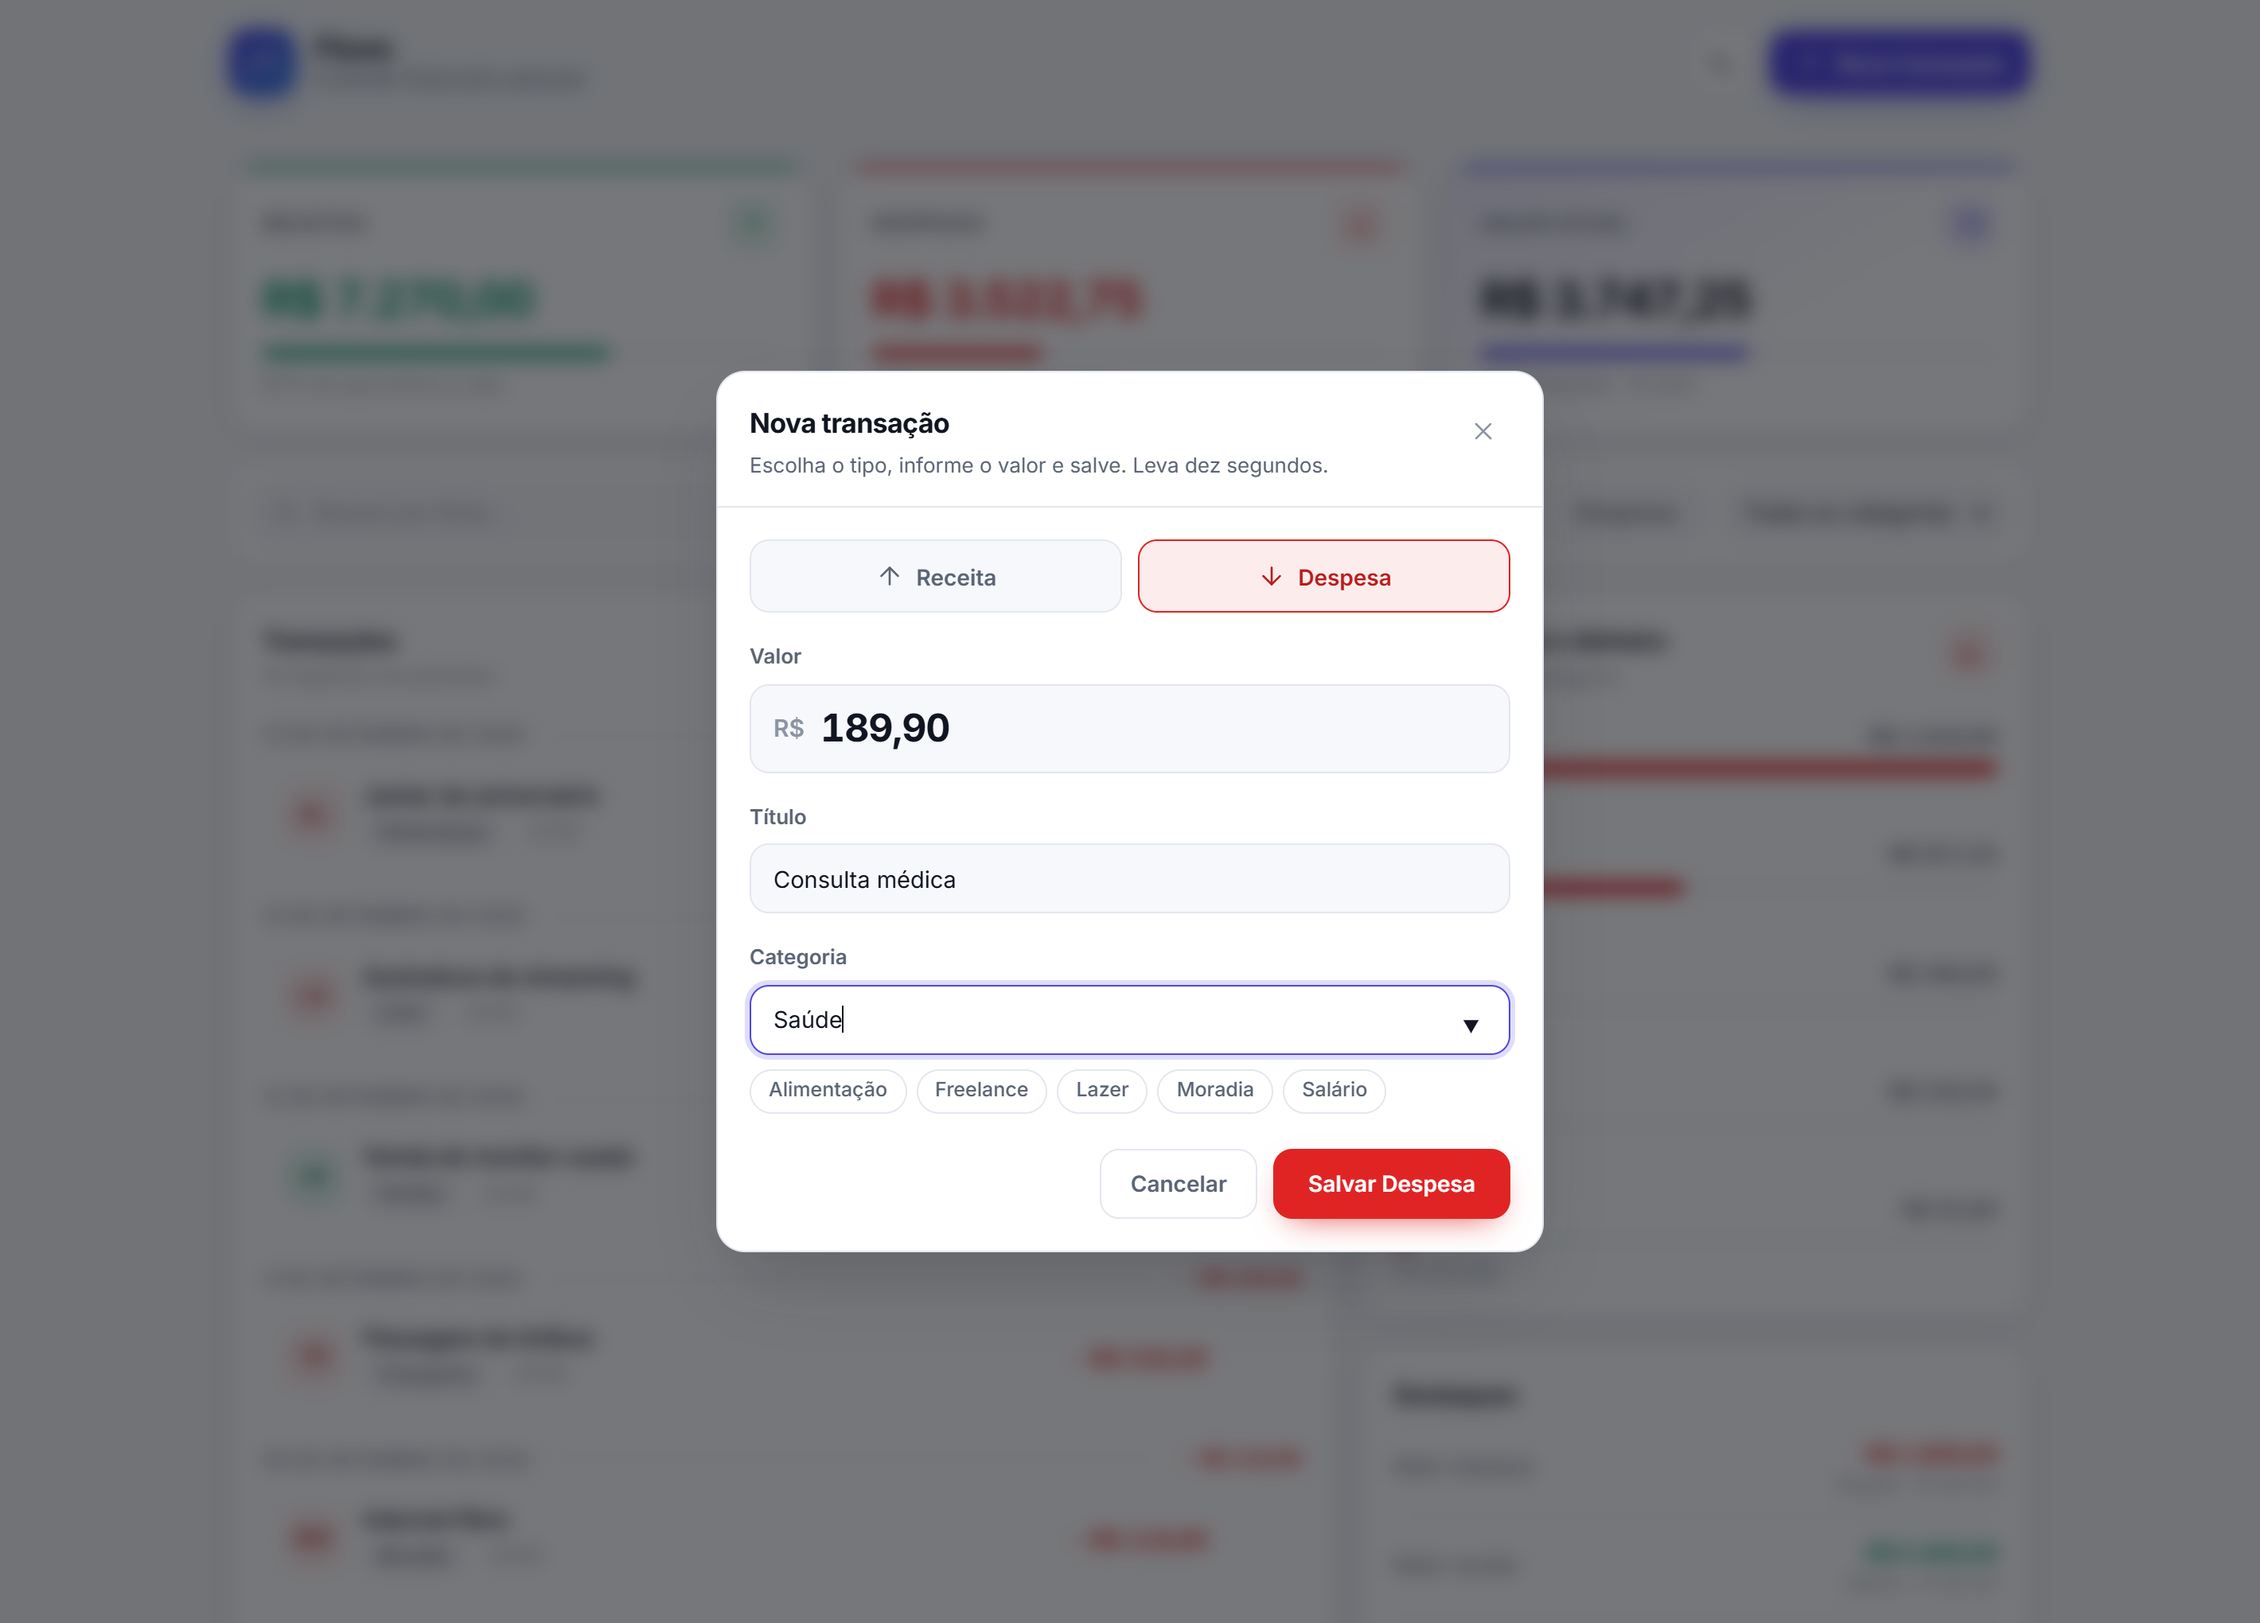
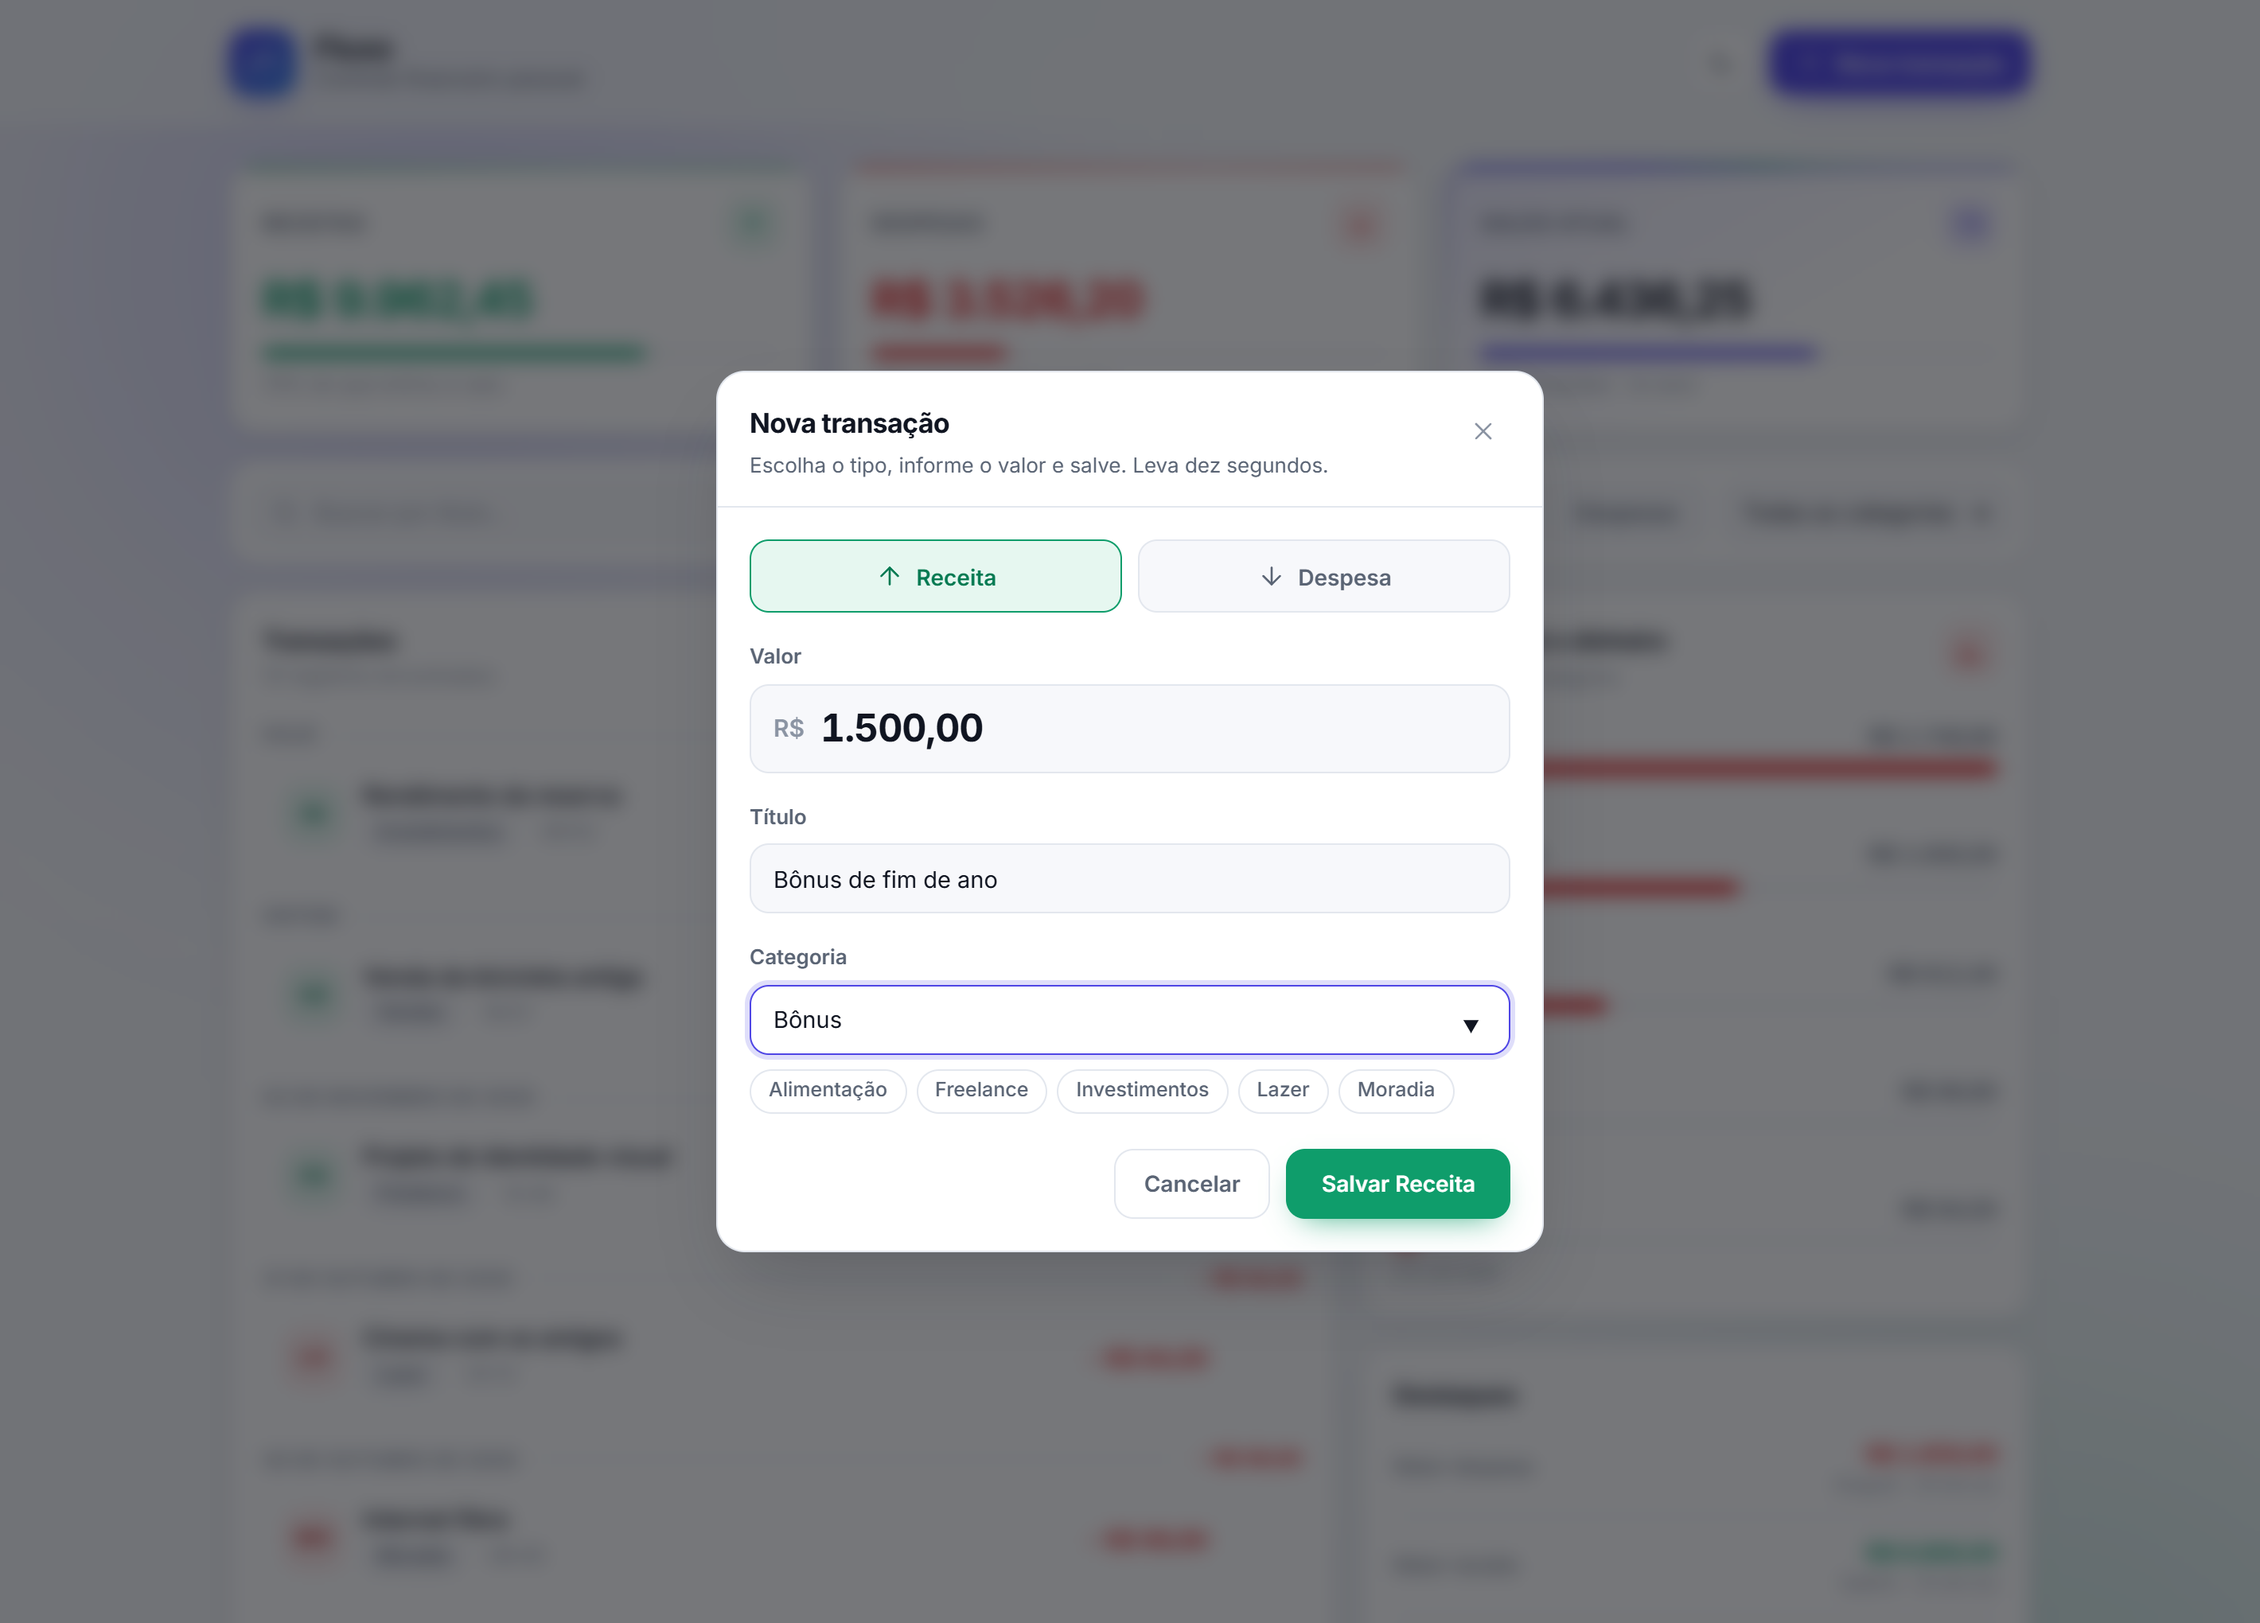
Recomeça o README com tom positivo e fotos de um mês saudável
O README anterior abria pela dor ("pare de se perguntar para onde foi o
seu dinheiro") e as fotos mostravam despesas no topo da lista. Agora o
texto e as imagens falam de clareza, progresso e conquista.

Texto
- Título "Seu dinheiro, com toda a clareza" e convite para abrir o app,
  repetido no fim com "O seu mês mais organizado começa agora".
- Benefícios em tom de ganho: saber quanto sobra, lançar em dez segundos,
  comemorar cada receita, entender os hábitos e encontrar tudo na hora.
- Privacidade como vantagem, e a limitação do armazenamento local virou
  uma dica de uso.
- Três passos para começar e perguntas frequentes com respostas
  afirmativas, todas verdadeiras para o app de hoje.

Fotos e GIF, gravados do site publicado
- Um mês saudável: salário, freela, rendimento da reserva e venda, com
  aporte em investimentos e saldo de R$ 6.436,25 no azul.
- As entradas mais recentes, em verde, abrem a lista.
- O formulário mostra uma receita sendo lançada.
- O GIF termina com um bônus entrando: selos verdes, faíscas e o saldo
  subindo.

diff --git a/README.md b/README.md
@@ -6,139 +6,141 @@
 [![Licença MIT](https://img.shields.io/badge/licen%C3%A7a-MIT-blue.svg)](LICENSE)
 [![PRs bem-vindos](https://img.shields.io/badge/PRs-bem--vindos-brightgreen.svg)](CONTRIBUTING.md)
 
-## Pare de se perguntar para onde foi o seu dinheiro.
+## Seu dinheiro, com toda a clareza.
 
-O Fluxo mostra seu saldo, seus gastos e o que mais pesa no mês **em uma tela só**.<br>
-Sem planilha. Sem cadastro. Sem entregar seus dados para ninguém.
+Anote receitas e despesas em segundos e acompanhe o seu saldo crescer.<br>
+**Simples, bonito e 100% seu.**
 
-### [**→ Abrir o Fluxo agora, é grátis**](https://th3usbit.github.io/fluxo-controle-financeiro/)
+### [**✨ Abrir o Fluxo, é grátis**](https://th3usbit.github.io/fluxo-controle-financeiro/)
 
-<sub>Nada de conta, e-mail ou cartão. Abriu, usou.</sub>
+<sub>Funciona direto no navegador. Sem cadastro, sem instalar nada.</sub>
 
 </div>
 
 <br>
 
-![O Fluxo em ação: os totais sobem, uma despesa é lançada e o saldo reage na hora](.github/assets/fluxo-em-acao.gif)
+![O Fluxo em ação: os totais sobem, um bônus é lançado e o saldo cresce na hora](.github/assets/fluxo-em-acao.gif)
 
 ---
 
-## O fim do mês não precisa ser uma surpresa
+## Organizar as finanças pode ser leve
 
-O salário cai, os dias passam e, quando você olha, o dinheiro já foi. Foi no mercado? Na assinatura que você nem usa mais? Nos pedidos de comida da semana?
+Saber para onde vai cada real é a base de toda conquista: a viagem, a reserva de emergência, o primeiro investimento. O Fluxo transforma isso num hábito rápido e gostoso: **você anota, ele organiza e mostra o seu progresso.**
 
-A planilha dá trabalho demais para manter. O app do banco mistura tudo. E o caderninho fica esquecido na gaveta.
-
-**Sem saber para onde o dinheiro vai, não dá para decidir onde cortar.**
-
-O Fluxo resolve isso do jeito mais simples possível: **você anota, ele organiza e mostra.**
+Em poucos dias você já enxerga o seu mês inteiro. Em poucas semanas, decide com segurança onde guardar mais.
 
 ---
 
-## Tudo o que importa, em um olhar
+## Tudo o que você precisa, em uma tela
 
-### 💰 Seu saldo na cara, sem fazer conta de cabeça
-Receitas, despesas e saldo ficam no topo da tela, com a fatia de cada um no que entrou e saiu. Você bate o olho e já sabe se está no azul ou no vermelho.
+### 💰 Saiba exatamente quanto sobra
+Receitas, despesas e saldo no topo da tela, sempre atualizados. Um olhar e você sabe que está no azul.
 
-### ⚡ Anote o gasto antes de esquecer
-São **dez segundos**: escolha receita ou despesa, digite o valor e salve. As categorias que você já usa aparecem como sugestão, e o valor pode ir do jeito que você escreve: `1.250,50`.
+### ⚡ Lançou, pronto
+Escolha receita ou despesa, digite o valor e salve. **Dez segundos**, com sugestão das categorias que você já usa e o valor escrito do seu jeito: `1.250,50`.
 
-### 🔍 Descubra o vilão do mês
-O painel **Para onde vai o dinheiro** coloca suas categorias em ordem, da que mais pesa para a que menos pesa. Quando a moradia sozinha leva 55% de tudo o que saiu, você vê isso sem precisar procurar.
+### 🎉 Comemore cada conquista
+Entrou dinheiro? O cartão de receitas e o saldo brilham em verde, mostram quanto subiu e a nova entrada chega com destaque na lista. Cada passo para a frente fica visível.
 
-### 🎯 Responda qualquer pergunta sobre o seu dinheiro
-"Quanto eu gastei com comida?" Filtre por categoria e **os totais do topo respondem na hora**. Busque pelo nome, separe só receitas ou só despesas: tudo acompanha o filtro.
+### 📊 Entenda os seus hábitos
+O painel **Para onde vai o dinheiro** organiza as suas categorias por peso, com o percentual de cada uma. Fica fácil ver quanto você já está guardando em investimentos e onde dá para render mais.
 
-### ✨ Veja cada lançamento acontecer
-Lançou uma despesa? O valor aparece no cartão, o saldo reage em vermelho e a linha nova chega brilhando na lista. Nada muda em silêncio, então você nunca fica na dúvida se salvou.
+### 🔍 Encontre qualquer coisa num instante
+Busque pelo nome, veja só receitas ou só despesas, filtre por categoria. **Os totais acompanham o filtro**, então "quanto entrou de freela este mês?" tem resposta na hora.
 
-### 🌗 Do seu jeito, onde você estiver
-Tema claro ou escuro, no computador ou no celular. É só abrir o navegador.
+### 🌗 Lindo de dia e de noite
+Tema claro e tema escuro, no computador ou no celular. Abra onde for mais confortável.
 
 <table>
   <tr>
-    <td width="50%"><img src=".github/assets/formulario.png" alt="Lançando uma nova despesa em segundos"></td>
-    <td width="50%"><img src=".github/assets/tela-escura.png" alt="O Fluxo no tema escuro"></td>
+    <td width="50%"><img src=".github/assets/tela-clara.png" alt="Painel do Fluxo com saldo positivo no tema claro"></td>
+    <td width="50%"><img src=".github/assets/tela-escura.png" alt="Painel do Fluxo com saldo positivo no tema escuro"></td>
   </tr>
   <tr>
-    <td align="center"><b>Lançar leva dez segundos</b></td>
-    <td align="center"><b>Tema escuro para usar à noite</b></td>
+    <td align="center"><b>Seu mês inteiro em um olhar</b></td>
+    <td align="center"><b>Também no tema escuro</b></td>
   </tr>
 </table>
 
----
-
-## Seus números são só seus
-
-Finanças são assunto pessoal. Por isso, o Fluxo **não tem conta, não tem login e não manda nada para servidor nenhum**: cada lançamento fica guardado no seu próprio navegador.
-
-- 🔒 **Ninguém vê seus números.** Nem nós.
-- 🚫 **Sem anúncio, sem venda de dados, sem letra miúda.**
-- 🧾 **Código aberto:** qualquer pessoa pode conferir exatamente o que o Fluxo faz.
-
-**A contrapartida, com toda a transparência:** como os dados vivem no navegador, eles ficam só naquele aparelho. Abrir em outro aparelho ou limpar os dados do site começa a lista do zero.
+<p align="center">
+  <img src=".github/assets/formulario.png" alt="Lançando uma receita em poucos segundos" width="70%"><br>
+  <b>Uma nova receita em dez segundos</b>
+</p>
 
 ---
 
-## Comece em três passos
+## Privacidade de verdade
 
-1. **[Abra o Fluxo.](https://th3usbit.github.io/fluxo-controle-financeiro/)** Não precisa instalar nada.
-2. **Explore os exemplos.** O app abre com um mês de lançamentos de mentira para você ver como tudo funciona.
-3. **Apague os exemplos e lance o seu primeiro gasto.** Em uma semana, você já sabe para onde vai o seu dinheiro.
+O Fluxo foi feito para que as suas finanças continuem sendo só suas.
+
+- 🔒 **Tudo fica no seu navegador.** Nada vai para servidor, nada passa por terceiros.
+- 🙌 **Sem conta e sem login.** Você abre e já está usando.
+- 🌱 **Sem anúncios e sem venda de dados.**
+- 🧾 **Código aberto.** Qualquer pessoa pode conferir cada linha do que o Fluxo faz.
+
+> **Dica:** como os dados moram no navegador, use sempre o mesmo aparelho e o mesmo navegador. Assim o seu histórico fica completo.
+
+---
+
+## Comece hoje, em três passos
+
+1. **[Abra o Fluxo](https://th3usbit.github.io/fluxo-controle-financeiro/).** Ele já está pronto para usar.
+2. **Explore o mês de exemplo** e veja como tudo funciona na prática.
+3. **Apague os exemplos e lance a sua primeira receita.** Pronto: o seu controle financeiro começou.
 
 ---
 
 ## Perguntas frequentes
 
 <details>
-<summary><b>É grátis mesmo?</b></summary>
+<summary><b>Quanto custa?</b></summary>
 <br>
-Sim. O Fluxo é código aberto, sob a licença MIT. Não tem plano pago, anúncio nem cobrança escondida.
+Nada. O Fluxo é gratuito e de código aberto, sob a licença MIT.
 </details>
 
 <details>
-<summary><b>Preciso criar conta?</b></summary>
+<summary><b>Preciso criar uma conta?</b></summary>
 <br>
-Não. Você abre o site e já começa a usar.
+Não. É só abrir o site e começar.
 </details>
 
 <details>
-<summary><b>Alguém consegue ver meus dados?</b></summary>
+<summary><b>Meus dados ficam seguros?</b></summary>
 <br>
-Não. Os lançamentos ficam só no navegador do seu aparelho e não passam por servidor nenhum.
+Sim. Eles ficam guardados no seu próprio navegador e não passam por nenhum servidor.
 </details>
 
 <details>
 <summary><b>Funciona no celular?</b></summary>
 <br>
-Sim, direto no navegador do celular, com a tela adaptada para ele.
+Funciona, direto no navegador, com a tela pensada para o celular.
 </details>
 
 <details>
-<summary><b>Os dados sincronizam entre o computador e o celular?</b></summary>
+<summary><b>Posso usar em mais de um aparelho?</b></summary>
 <br>
-Não. Esse é o preço de não ter servidor: cada aparelho guarda a própria lista. Use sempre no mesmo aparelho e no mesmo navegador.
+Pode abrir em qualquer aparelho. Cada um guarda a própria lista, então o ideal é escolher um aparelho principal para o seu controle.
 </details>
 
 <details>
-<summary><b>Ele se conecta com o meu banco?</b></summary>
+<summary><b>Por que eu mesmo lanço os valores?</b></summary>
 <br>
-Não, e isso é proposital. Você lança cada valor, o que te obriga a olhar para cada gasto. É exatamente esse olhar que muda o hábito.
+Porque é o jeito mais eficaz de criar consciência financeira: anotar leva segundos e faz você notar cada movimento do seu dinheiro.
 </details>
 
 <details>
-<summary><b>E se eu limpar os dados do navegador?</b></summary>
+<summary><b>Como começo do zero?</b></summary>
 <br>
-A lista volta para os exemplos iniciais. Se o histórico é importante para você, evite limpar os dados desse site.
+Exclua as transações de exemplo pela lixeira de cada linha e lance as suas. O Fluxo guarda tudo automaticamente.
 </details>
 
 <br>
 
 <div align="center">
 
-### Pronto para descobrir para onde vai o seu dinheiro?
+### O seu mês mais organizado começa agora.
 
-### [**→ Abrir o Fluxo agora**](https://th3usbit.github.io/fluxo-controle-financeiro/)
+### [**✨ Abrir o Fluxo**](https://th3usbit.github.io/fluxo-controle-financeiro/)
 
 <sub>Grátis · sem cadastro · seus dados ficam com você</sub>
 
